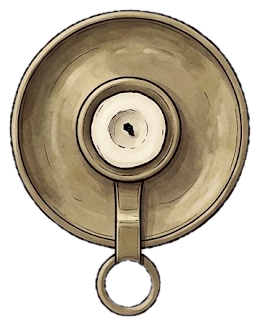
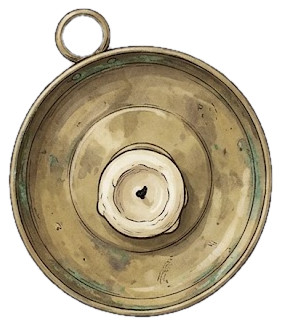
Swap in the more detailed top-down lamp, candle and stamp
Claude-Session: https://claude.ai/code/session_01RsXX34AaGrgJM3it2ernwX

diff --git a/assets/art/placement.ts b/assets/art/placement.ts
@@ -16,11 +16,11 @@ export interface ArtPlacement {
 }
 
 export const artPlacement: Record<string, ArtPlacement> = {
-  // Top-down sheet (source/sheet-topdown.jpg): the flame burns where the wick is.
-  lamp: { size: [269, 270], anchor: [134, 135], width: 133, points: { flame: [134, 135] } },
-  candle: { size: [260, 325], anchor: [129, 130], width: 67, points: { flame: [127, 128] } },
+  // Top-down sheet (source/sheet-topdown-detailed.jpg): the flame burns where the wick is.
+  lamp: { size: [279, 283], anchor: [139, 141], width: 133, points: { flame: [139, 141] } },
+  candle: { size: [281, 326], anchor: [140, 185], width: 66.5, points: { flame: [142, 196] } },
   pen: { size: [44, 289], anchor: [21.5, 279], width: 27.4 },
   // Glass radius in the image is ~49 px; drawn so it matches the game's LENS_R (38).
   magnifier: { size: [241, 295], anchor: [78, 72], width: 187, points: { handleEnd: [224, 284] } },
-  stamp: { size: [189, 191], anchor: [94, 94], width: 58 },
+  stamp: { size: [213, 215], anchor: [106, 107], width: 57 },
 };
